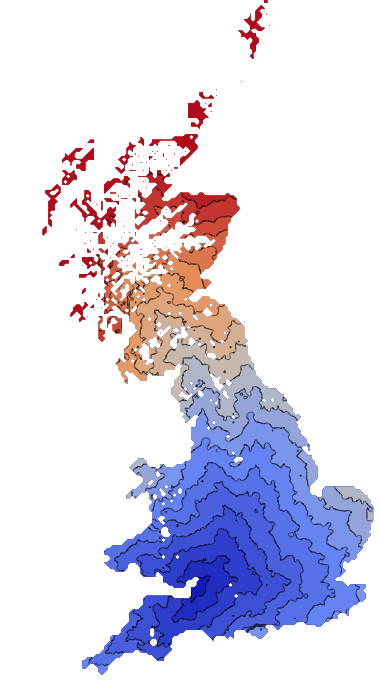
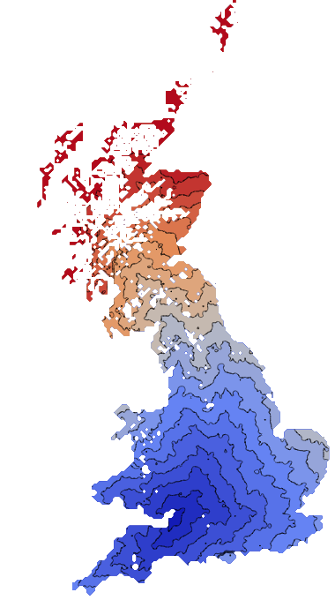
AnHourFromHome description and pics

Changed region(s): [[0.4776, 0.15, 0.5075, 0.18]]

diff --git a/index.html b/index.html
@@ -61,6 +61,126 @@
         <p>things that are done because I need to learn by doing.</p>
       </div>
 
+
+<div id="anhourfromhere"> </div>
+  <div class="page-header">
+    <h1>Getaway driving</h1>
+  </div>
+  <div class="container">
+    <div class="row">
+      <div class="col-md-6">
+        <p>
+          <a href="anhourfromhere/AnHourHeatmap.html"><img src="thumbs/AnHourFromHereUK.png" class="img-thumbnail" alt="Google heatmap of driving distance."></a>
+        </p>
+        <p>
+          <a class="btn btn-primary" href="anhourfromhere/AnHourHeatmap.html" role="button">Site</a> Pseudo driving distance via a heatmap in Google maps</p>
+    <p><a href="anhourfromhere/fullMap.js"/><button type="button" class="btn btn-info">Data</button></a>
+     Weighted heatmap points for a Google map.
+     </p>
+     </div>
+     <div class="col-md-6">
+       <p>
+         <a href="anhourfromhere/AnHourContour.html"><img src="thumbs/AnHourFromHerePlotly.png" class="img-thumbnail" alt="Plotly contour map of driving distance."></a>
+       </p>
+       <p>
+         <a class="btn btn-primary" href="anhourfromhere/AnHourContour.html" role="button">Site</a> Half hour dragnet boundaries with a contour map
+       </p>
+    <p><a href="anhourfromhere/ContourData.js"/><button type="button" class="btn btn-info">Data</button></a>
+     Matrix input for Plot.ly
+     </p>
+     </div>
+     <div>
+       <p>
+         Wondering about day trip options with a budget of only 2500 drive-time
+         lookups per day with the google API. Distilled the UK into about a
+         nine thousand point grid (a week of free scraping) by taking the
+         <a href="https://www.ordnancesurvey.co.uk/business-and-government/products/code-point-open.html">Code-Point Open</a>
+         data and finding the middle-most of each 5km box.
+        </p><p>
+         Four days of burning my quota to get driving distance and do a lat/long
+         lookup (too lazy to calculate form the OS gridpoint):
+         <img src="thumbs/AnHourFromHereAPIFull.png" class="img-thumbnail" alt="Quota fulfilled">
+       </p>
+       <p>
+         There were a few unroutable destinations. Naturally remote places included
+         a fair few in islands off the
+         <a href="https://maps.google.com/maps?q=IV499BS,UK">
+         coast</a>
+         or in a
+         <a href="https://maps.google.com/maps?q=G630JY,UK">
+         loch
+         </a>
+         <a href="https://maps.google.com/maps?q=IV519RA,UK">
+         of</a>
+         <a href="https://maps.google.com/maps?q=PH414PS,UK">
+         Scotland</a>,
+         <a href="https://maps.google.com/maps?q=LL538DE,UK">
+         off</a>
+         <a href="https://maps.google.com/maps?q=SA707UH,UK">
+         Wales</a>, and
+         <a href="https://maps.google.com/maps?q=TR210NX,UK">
+         off</a>
+         <a href="https://maps.google.com/maps?q=EX392LY,UK">
+         Cornwall</a>. A fair bit of the
+         Shetland Islands were routable
+         <a href="https://maps.google.com/maps?q=ZE29PA,UK">
+         bar</a>
+         <a href="https://maps.google.com/maps?q=ZE29PN,UK">
+         these</a>. Novel places that wouldn't route were a
+         <a href="https://maps.google.com/maps?q=PA344SX,UK">
+         Parrot Sanctuary</a>
+         and a
+         <a href="https://maps.google.com/maps?q=SN118TJ,UK">
+         cement and rubble company</a>.
+       </p>
+       <p>
+         There's a fair bit of Scotland without enough postcodes to request a
+         route. You can see the data grid by zooming in on the google heatmap.
+         <div class="alert alert-success" role="alert">
+           I caught myself before thinking routing was trivially linear, making
+           corresponding contour (<i>dragnet</i>)  maps from any data point by
+           just using deltas. Or trying to compensate and generating a data set
+           form the four <i>corners</i> of the UK and interpolating when centering
+           at any point. A long scrape to increase fidelity or make multiple
+           dragnet datasets could generate one of
+           <a href="https://www.edwardtufte.com/bboard/q-and-a-fetch-msg?msg_id=0000hv">Tufte's small multiple visualisations</a>.
+         </div>
+         On my way to the Plot.ly and Google heat map, I pushed very similar
+         data into Octave and Kibana respectively. The Kibana small multiple
+         of one two and three hours out from the origin with a scripted field
+         is below:
+       </p>
+
+  <div class="container">
+    <div class="row">
+      <div class="col-md-4">
+        <p>
+          <img src="thumbs/AnHourKibana.png" class="img-thumbnail" alt="Google heatmap of driving distance.">
+        </p>
+      </div>
+      <div class="col-md-4">
+        <p>
+          <img src="thumbs/ASecondHourKibana.png" class="img-thumbnail" alt="Google heatmap of driving distance.">
+        </p>
+      </div>
+      <div class="col-md-4">
+        <p>
+          <img src="thumbs/AThirdHourKibana.png" class="img-thumbnail" alt="Google heatmap of driving distance.">
+        </p>
+      </div>
+
+    </div>
+  </div>
+
+     </div>
+   </div>
+</div>
+
+
+      <!-- END OF an hour from here-->
+
+
+
 <div id="fitness"> </div>
       <div class="page-header">
           <h1>Fitness data</h1>

diff --git a/anhourfromhere/AnHourContour.html b/anhourfromhere/AnHourContour.html
@@ -4,11 +4,10 @@
 </head>
 
 <body>
-  
-  <div id="myDiv"><!-- Plotly chart will be drawn inside this DIV --></div>
+
+  <div id="myDiv"></div>
   <script src="ContourData.js"></script>
   <script>
-    <!-- JAVASCRIPT CODE GOES HERE -->
 
 var data = [ {
         z: dist,
@@ -27,6 +26,98 @@ var layout = {
     autosize:false,
     width: 380,
     height: 680,
+    showlegend:false,
+    annotations: [
+     {
+      x: 50,
+      y: 166,
+      xref: 'x',
+      yref: 'y',
+      text: 'Loch Ness',
+      showarrow: true,
+      arrowhead: 7,
+      ax: 70,
+      ay: -50
+     },
+     {
+      x: 76,
+      y: 161,
+      xref: 'x',
+      yref: 'y',
+      text: 'Aberdeen',
+      showarrow: true,
+      arrowhead: 7,
+      ax: 55,
+      ay: -15
+     },
+     {
+      x: 66,
+      y: 135,
+      xref: 'x',
+      yref: 'y',
+      text: 'Edinbrugh',
+      showarrow: true,
+      arrowhead: 7,
+      ax: 55,
+      ay: -15
+     },
+     {
+      x: 52,
+      y: 56,
+      xref: 'x',
+      yref: 'y',
+      text: 'Aberystwyth',
+      showarrow: true,
+      arrowhead: 7,
+      ax: -80,
+      ay: 0
+     },
+     {
+      x: 66,
+      y: 87,
+      xref: 'x',
+      yref: 'y',
+      text: 'Blackpool',
+      showarrow: true,
+      arrowhead: 7,
+      ax: -80,
+      ay: 0
+     },
+     {
+      x: 85,
+      y: 113,
+      xref: 'x',
+      yref: 'y',
+      text: 'Newcastle',
+      showarrow: true,
+      arrowhead: 7,
+      ax: 60,
+      ay: -20
+     },
+     {
+      x: 106,
+      y: 36,
+      xref: 'x',
+      yref: 'y',
+      text: 'London',
+      showarrow: true,
+      arrowhead: 7,
+      ax: 0,
+      ay: +70
+     },
+     {
+      x: 30,
+      y: 8,
+      xref: 'x',
+      yref: 'y',
+      text: 'St.Ives',
+      showarrow: true,
+      arrowhead: 7,
+      ax: -20,
+      ay: -40
+     },
+
+    ],
     margin: {
       l: 0,
       r: 0,
